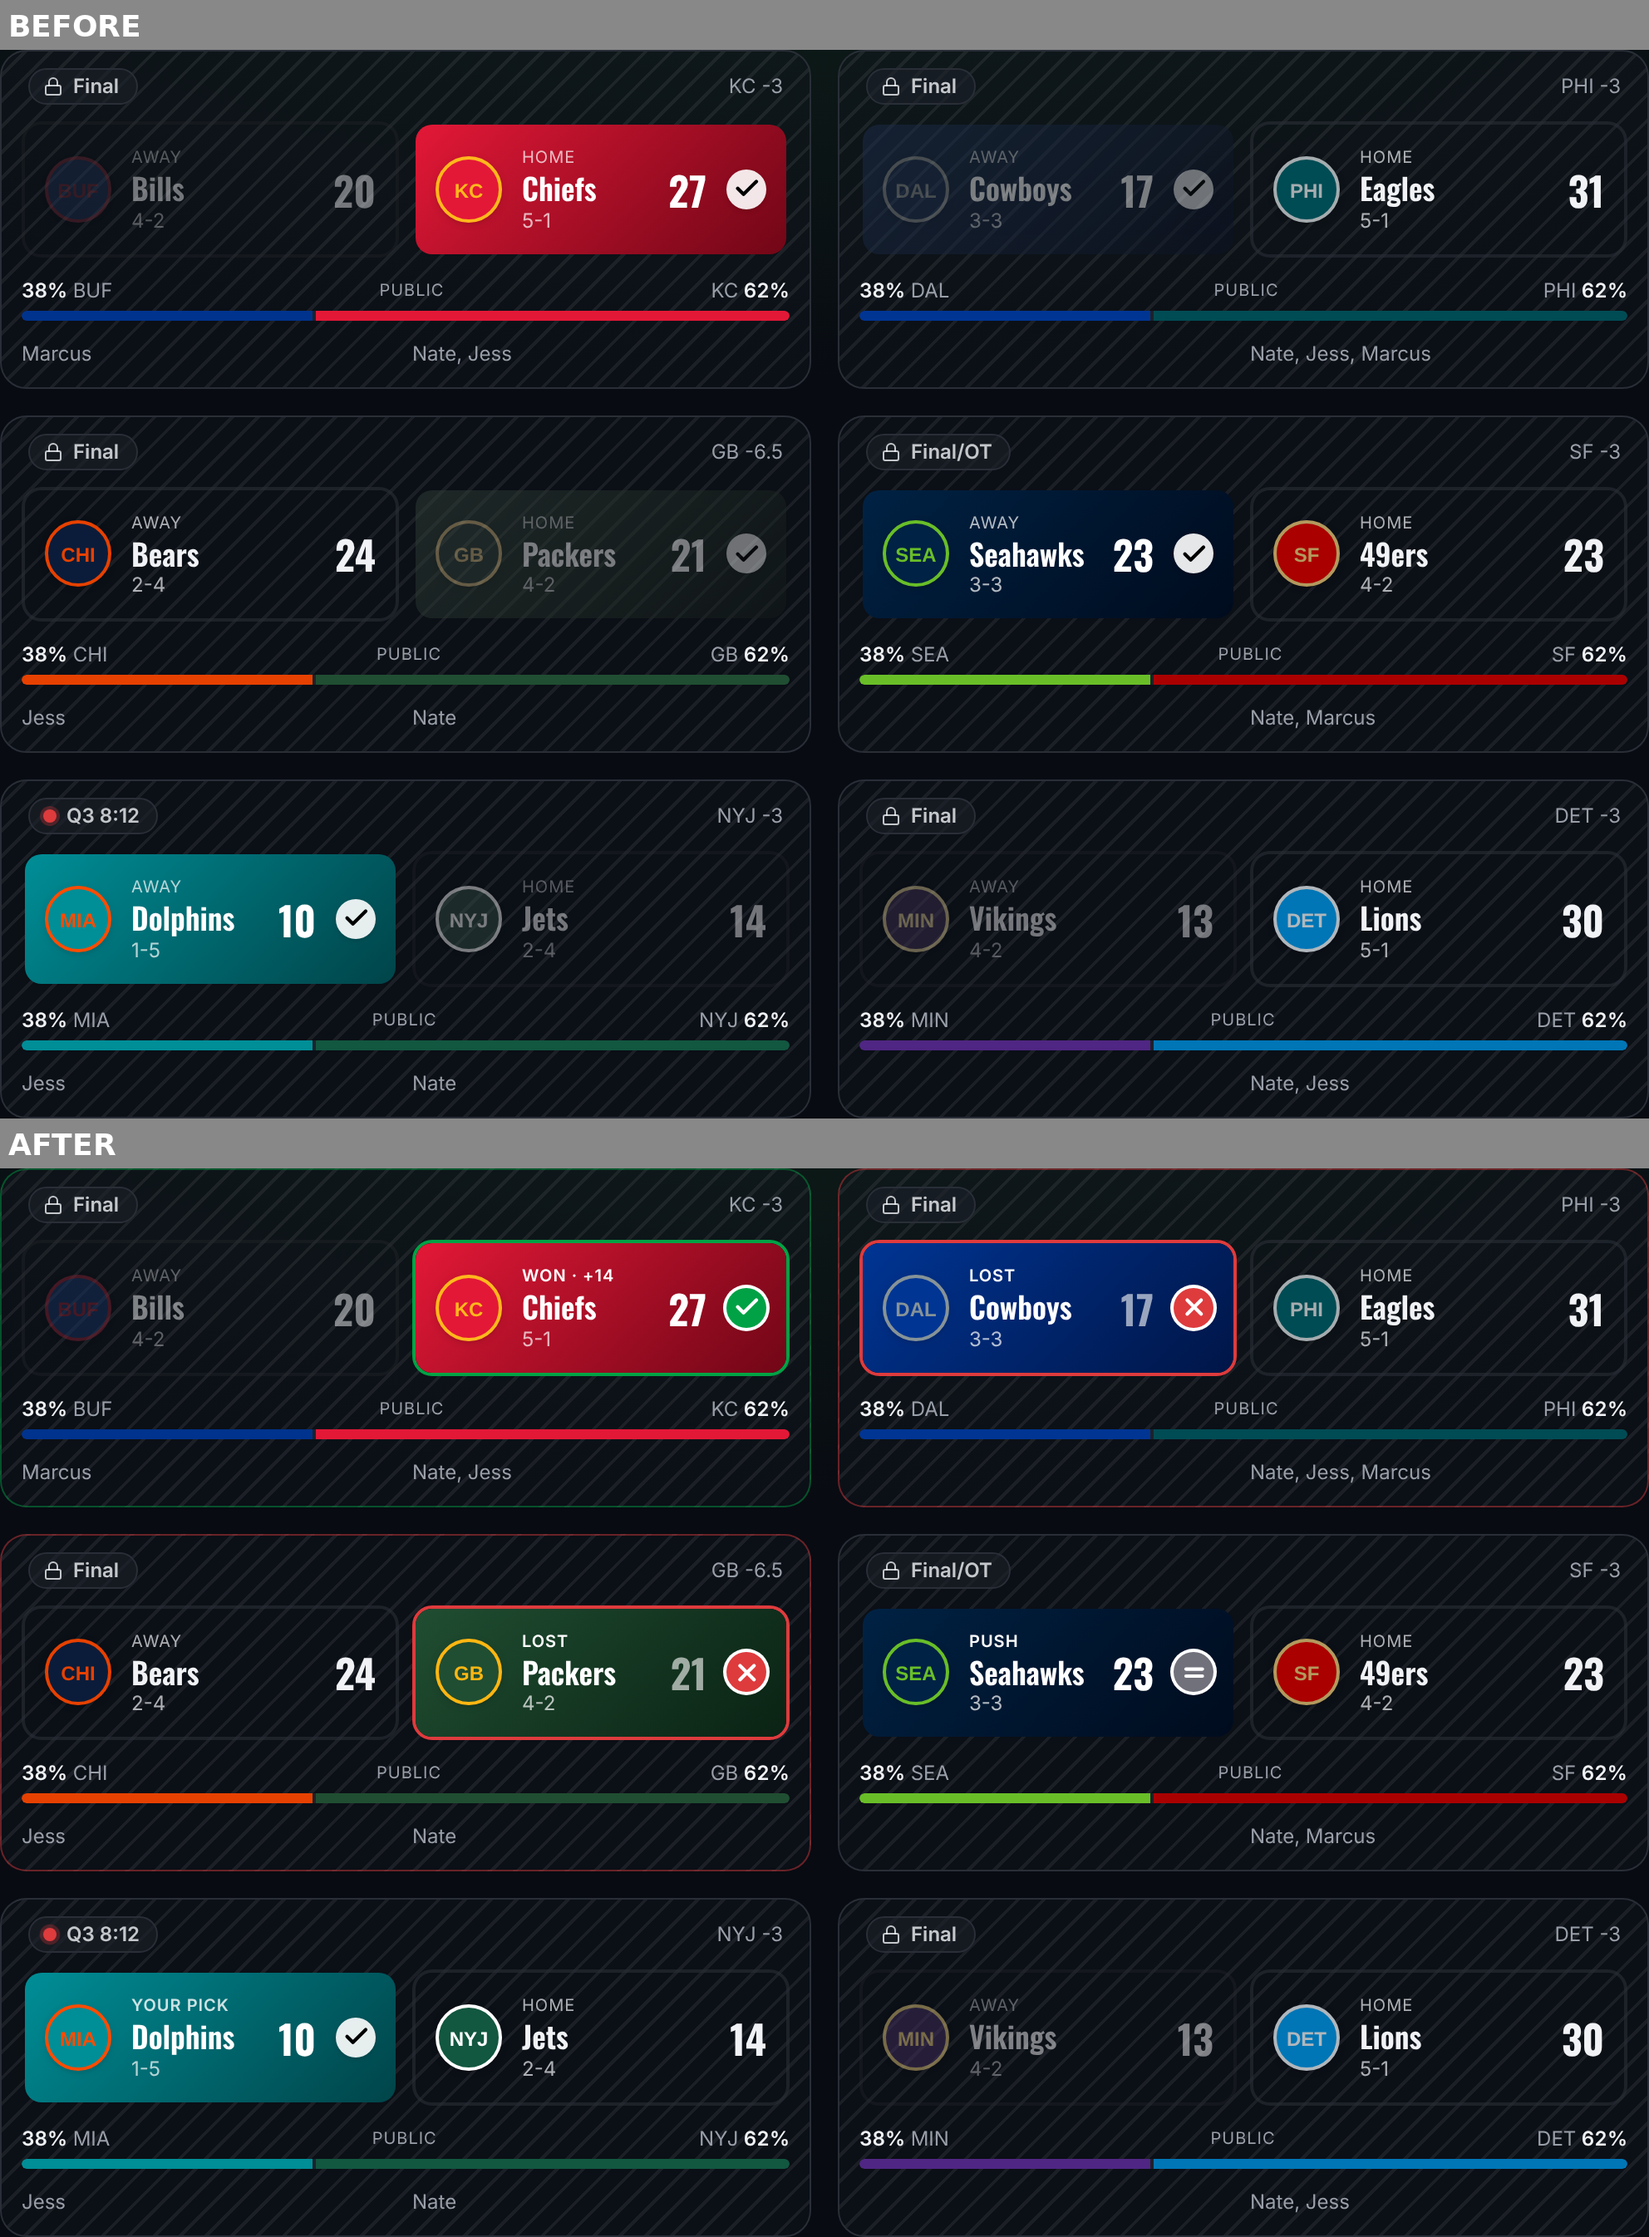
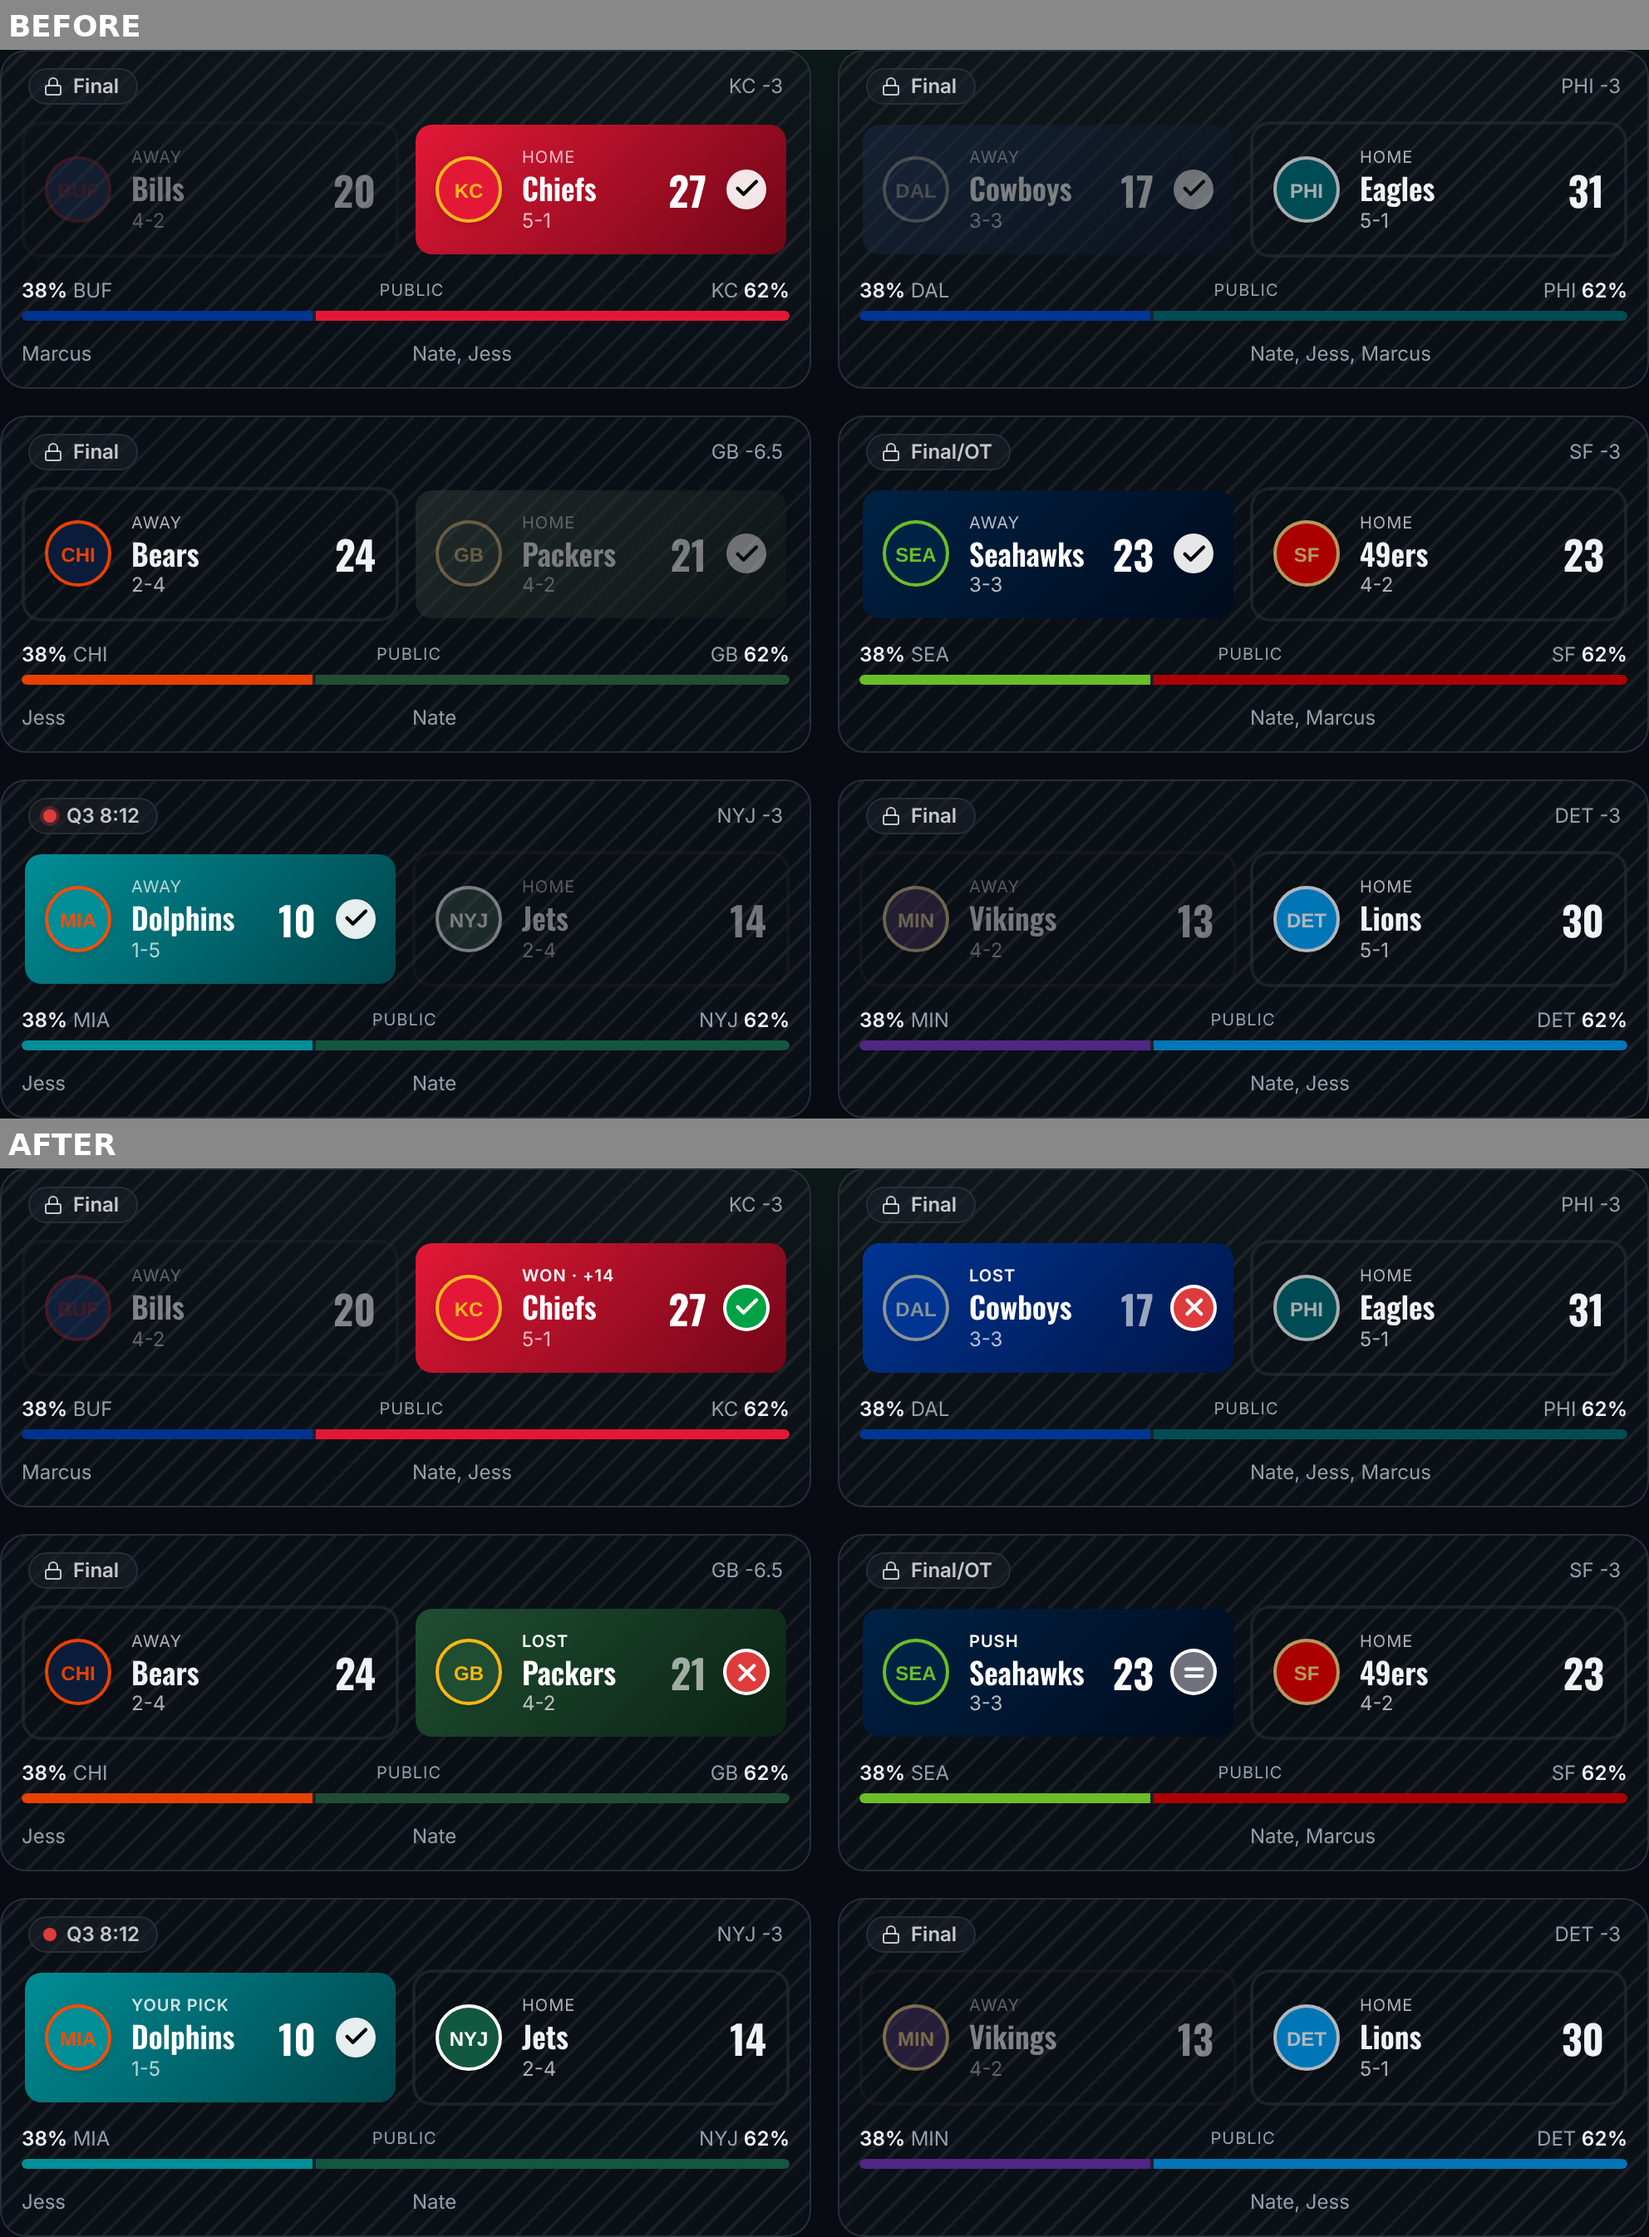
Drop the green/red borders; the result badge carries it
Claude-Session: https://claude.ai/code/session_01WzHCxDfhewT49qRtAnMkoV

Changed region(s): [[0.4688, 0.7177, 0.5, 0.7489], [0.25, 0.7177, 0.2812, 0.7489]]

diff --git a/src/components/GameCard.tsx b/src/components/GameCard.tsx
@@ -113,8 +113,6 @@ export function GameCard({
 				locked
 					? "bg-card/40 bg-[repeating-linear-gradient(135deg,transparent_0_9px,color-mix(in_oklab,var(--foreground)_7%,transparent)_9px_11px)]"
 					: "bg-card shadow-sm",
-				result === "win" && "border-win/45",
-				result === "loss" && "border-loss/45",
 			)}
 		>
 			<div className="flex items-center justify-between px-4 pt-3 text-xs text-muted-foreground">
@@ -419,11 +417,7 @@ function TeamButton({
 			className={cn(
 				"relative flex flex-col items-start gap-2 overflow-hidden rounded-md border-2 p-3 text-left transition-colors sm:flex-row sm:items-center sm:gap-3",
 				selected
-					? result === "win"
-						? "border-win text-white"
-						: result === "loss"
-							? "border-loss text-white"
-							: "border-transparent text-white"
+					? "border-transparent text-white"
 					: disabled
 						? "border-border/60"
 						: "border-border hover:border-muted-foreground/40",

diff --git a/src/components/WeekResults.tsx b/src/components/WeekResults.tsx
@@ -264,11 +264,8 @@ function PickCell({
 				title={`${name}: ${team.abbr}${cell.isLock ? " (lock)" : ""} · ${OUTCOME_LABEL[cell.outcome]}`}
 				className={cn(
 					"relative flex h-9 items-center justify-center gap-1 rounded-md px-1.5 font-display text-sm font-semibold",
-					// Same language as the game cards: green won, red lost, gray push.
-					cell.outcome === "win" &&
-						"bg-win/15 text-win ring-1 ring-win/45 ring-inset",
-					cell.outcome === "loss" &&
-						"bg-loss/10 text-loss ring-1 ring-loss/45 ring-inset",
+					cell.outcome === "win" && "bg-win/15 text-win",
+					cell.outcome === "loss" && "bg-loss/10 text-loss",
 					cell.outcome === "push" && "bg-muted text-muted-foreground",
 					muted && "opacity-60 saturate-50",
 				)}
